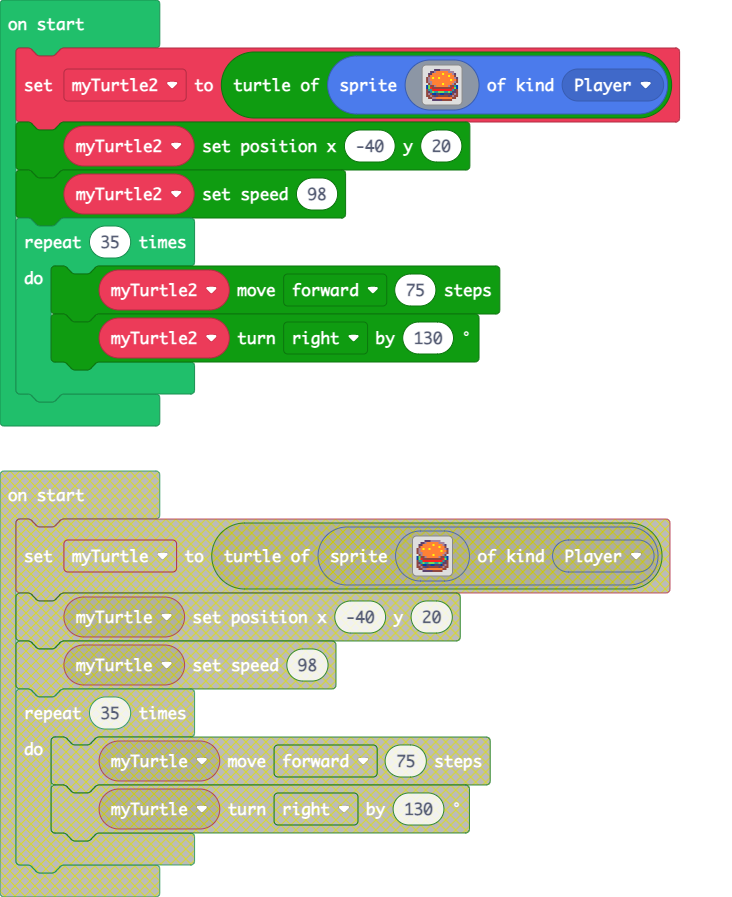
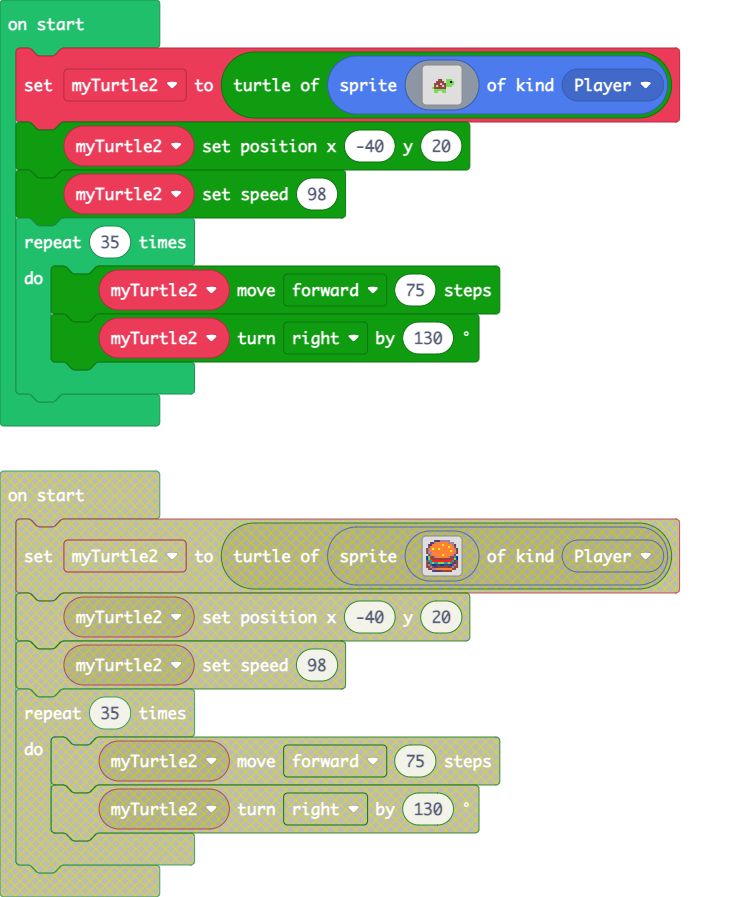
updated example program

Changed region(s): [[0.2104, 0.5619, 0.9317, 0.7804], [0.2705, 0.8116, 0.6913, 0.9365], [0.571, 0.0624, 0.6311, 0.1249]]

diff --git a/images.g.ts b/images.g.ts
@@ -93,6 +93,60 @@ e e b e c c e e e e e c e b e e
 . . . . . . . . . . . . . . . . 
 . . . . . . . . . . . . . . . . 
 `;
+            case "image7":return img`
+. . . . . . . . . . . . . . . . 
+. . . . . . . . . . . . . . . . 
+. . . . . . . . . . . . . . . . 
+. . . . . . . . . . . . . . . . 
+. . . . . . . . . . . . . . . . 
+. . . . . . e e . . 7 7 7 . . . 
+. . . . . e e e e . 7 7 f 7 . . 
+. . . . e e e d e e 7 7 7 7 . . 
+. . . . e d e e d e 7 7 7 . . . 
+. . . 7 e e e e e e . . . . . . 
+. . . . 7 7 7 7 7 7 . . . . . . 
+. . . . 7 7 . . 7 7 . . . . . . 
+. . . . . . . . . . . . . . . . 
+. . . . . . . . . . . . . . . . 
+. . . . . . . . . . . . . . . . 
+. . . . . . . . . . . . . . . . 
+`;
+            case "image6":return img`
+. . . . . . . . . . . . . . . . 
+. . . . . . . . . . . . . . . . 
+. . . . . . . . . . . . . . . . 
+. . . . . . . . . . . . . . . . 
+. . . . . . . . . . . . . . . . 
+. . . . . . e e . . 7 7 7 . . . 
+. . . . . e e e e . 7 7 f 7 . . 
+. . . . e e e d e e 7 7 7 7 . . 
+. . . . e d e e d e 7 7 7 . . . 
+. . . 7 e e e e e e . . . . . . 
+. . . . 7 7 7 7 7 7 . . . . . . 
+. . . . 7 7 . . 7 7 . . . . . . 
+. . . . . . . . . . . . . . . . 
+. . . . . . . . . . . . . . . . 
+. . . . . . . . . . . . . . . . 
+. . . . . . . . . . . . . . . . 
+`;
+            case "image8":return img`
+. . . . . . . . . . . . . . . . 
+. . . . . . . . . . . . . . . . 
+. . . . . . . . . . . . . . . . 
+. . . . . . . . . . . . . . . . 
+. . . . . . . . . . . . . . . . 
+. . . . . . e e . . 7 7 7 . . . 
+. . . . . e e e e . 7 7 f 7 . . 
+. . . . e e e d e e 7 7 7 7 . . 
+. . . . e d e e d e 7 7 7 . . . 
+. . . 7 e e e e e e . . . . . . 
+. . . . 7 7 7 7 7 7 . . . . . . 
+. . . . 7 7 . . 7 7 . . . . . . 
+. . . . . . . . . . . . . . . . 
+. . . . . . . . . . . . . . . . 
+. . . . . . . . . . . . . . . . 
+. . . . . . . . . . . . . . . . 
+`;
         }
         return null;
     })

diff --git a/main.ts b/main.ts
@@ -1,19 +1,19 @@
 let myTurtle2 = turtle.fromSprite(sprites.create(img`
-    . . . . . . . . . . . . . . . .
-    . . . . . . . . . . . . . . . .
-    . . . . . . . . . . . . . . . .
-    . . . . . . . . . . . . . . . .
-    . . . . . . . . . . . . . . . .
-    . . . . . . e e . . 7 7 7 . . .
-    . . . . . e e e e . 7 7 f 7 . .
-    . . . . e e e d e e 7 7 7 7 . .
-    . . . . e d e e d e 7 7 7 . . .
-    . . . 7 e e e e e e . . . . . .
-    . . . . 7 7 7 7 7 7 . . . . . .
-    . . . . 7 7 . . 7 7 . . . . . .
-    . . . . . . . . . . . . . . . .
-    . . . . . . . . . . . . . . . .
-    . . . . . . . . . . . . . . . .
+    . . . . . . . . . . . . . . . . 
+    . . . . . . . . . . . . . . . . 
+    . . . . . . . . . . . . . . . . 
+    . . . . . . . . . . . . . . . . 
+    . . . . . . . . . . . . . . . . 
+    . . . . . . e e . . 7 7 7 . . . 
+    . . . . . e e e e . 7 7 f 7 . . 
+    . . . . e e e d e e 7 7 7 7 . . 
+    . . . . e d e e d e 7 7 7 . . . 
+    . . . 7 e e e e e e . . . . . . 
+    . . . . 7 7 7 7 7 7 . . . . . . 
+    . . . . 7 7 . . 7 7 . . . . . . 
+    . . . . . . . . . . . . . . . . 
+    . . . . . . . . . . . . . . . . 
+    . . . . . . . . . . . . . . . . 
     . . . . . . . . . . . . . . . . 
     `, SpriteKind.Player))
 myTurtle2.setPositionCartesian(-40, 20)
